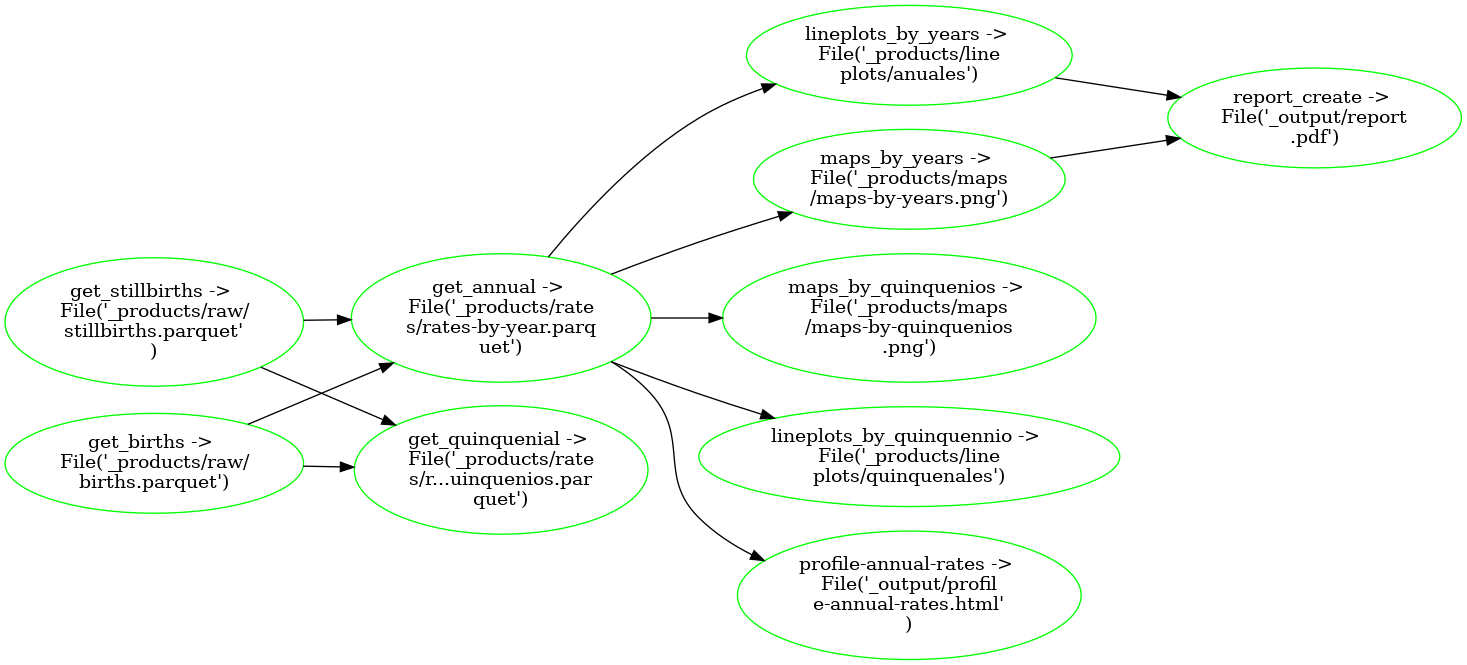
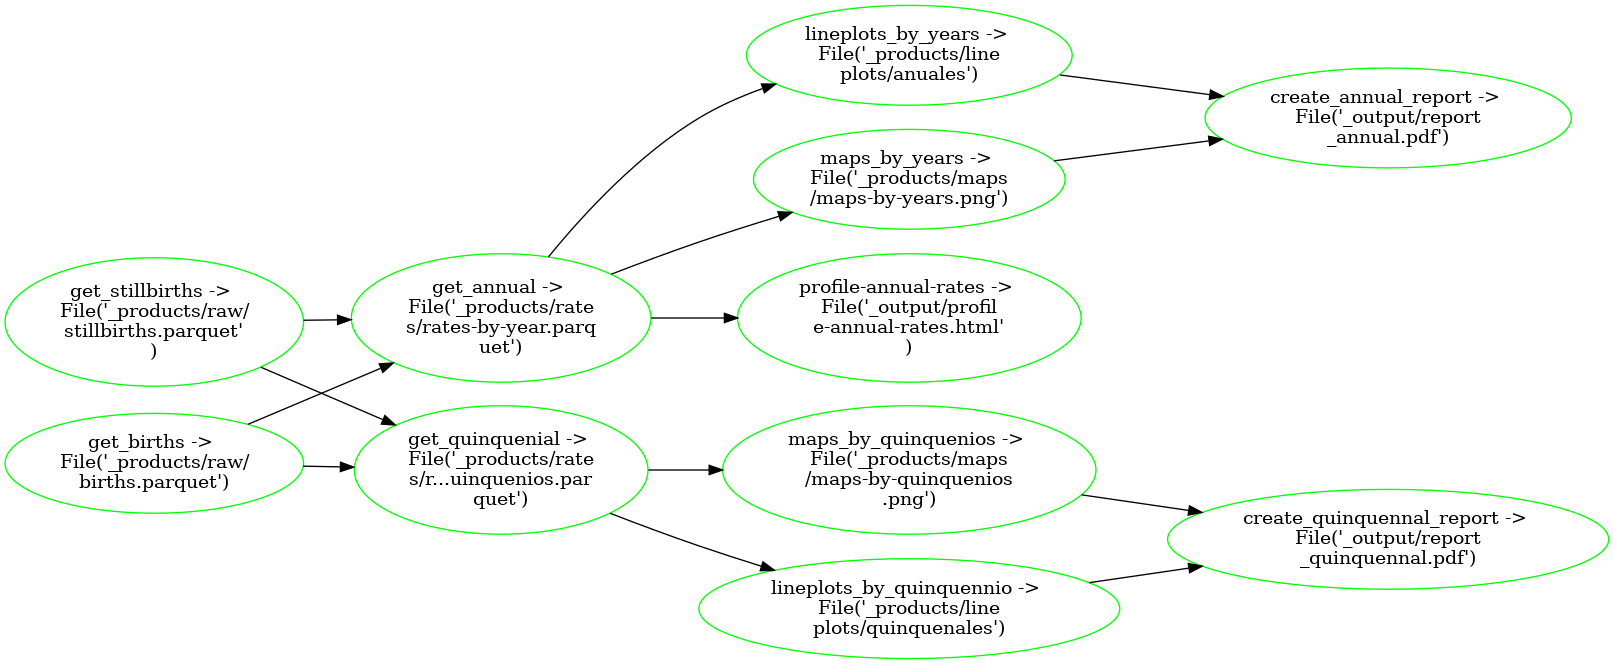
fix quinquennial report

diff --git a/provincial/tasks/report.py b/provincial/tasks/report.py
@@ -58,7 +58,7 @@ def __get_fig_template(fig_src: str, width: int, height: int) -> str:
 
 
 # + tags=[]
-def create(product, upstream, rates_param):
+def create_annual(product, upstream, rates_param):
 
     report_content = __get_report_template()
     # add maps:
@@ -71,7 +71,7 @@ def create(product, upstream, rates_param):
     # add lineplots:
     report_content += f'''
         <div style = "display:block; clear:both; page-break-after:always;"></div>
-        <h2 align="center">Tasas anuales por departamentos</h2>
+        <h2 align="center">Tasas anuales por provincias</h2>
         <p align="center">Cantidad de casos sobre {rates_param} nacimientos</p>
     '''
 
@@ -108,6 +108,70 @@ def create(product, upstream, rates_param):
 
     # Save HTML string to file
     HTML_REPORT_DIR = "tmp_report_years.html"
+    with open(HTML_REPORT_DIR, "w") as r:
+        r.write(report_content)
+    #Use pdfkit to create the pdf report from the 
+    pdfkit.from_file(
+        HTML_REPORT_DIR,
+        str(product),
+        options=options
+    ) 
+
+    # remove the tmp data
+    os.remove(HTML_REPORT_DIR)
+
+
+# + tags=[]
+def create_quinquennal(product, upstream, rates_param):
+
+    report_content = __get_report_template()
+    # add maps:
+    report_content += f'''
+        <h2 align="center">Mapas quinquenales</h2>
+        <p align="center">Cantidad de casos sobre {rates_param} nacimientos</p>
+    '''
+    report_content += __get_fig_template(str(upstream['maps_by_quinquenios']), 1200, 400)
+
+    # add lineplots:
+    report_content += f'''
+        <div style = "display:block; clear:both; page-break-after:always;"></div>
+        <h2 align="center">Tasas quinquenales por provincias</h2>
+        <p align="center">Cantidad de casos sobre {rates_param} nacimientos</p>
+    '''
+
+    # add map figures:
+    figure_names = [str(name) for name in sorted(glob.glob(f"{upstream['lineplots_by_quinquennio']}/*.png"))]
+
+    FIGURE_MAX_WIDTH = 1200
+    for figure_name in figure_names:
+        # add figures to report:
+        image = PIL.Image.open(figure_name)
+        width, height = image.size
+        # achicar el ancho de la fihura según la relación
+        # ancho de la figura - ancho máximo
+        height_max = height * (FIGURE_MAX_WIDTH / width)
+        if height_max < height:
+            height = height_max
+        report_content += __get_fig_template(figure_name, FIGURE_MAX_WIDTH, height)
+
+
+    # close
+    report_content += '''
+        </html>
+    '''
+
+    options = {
+        'page-size': 'Letter',
+        'margin-top': '0.75in',
+        'margin-right': '0.75in',
+        'margin-bottom': '0.75in',
+        'margin-left': '0.75in',
+        'encoding': "UTF-8",
+        'no-outline': None
+    }
+
+    # Save HTML string to file
+    HTML_REPORT_DIR = "tmp_report_quinquennios.html"
     with open(HTML_REPORT_DIR, "w") as r:
         r.write(report_content)
     #Use pdfkit to create the pdf report from the 

diff --git a/provincial/tasks/maps.py b/provincial/tasks/maps.py
@@ -76,10 +76,41 @@ def by_years(product, upstream):
     plt.close();
 
 
+# + active=""
+#
+# periods = {
+#     '1994-1998': [1994, 1995, 1996, 1997, 1998],
+#     '1999-2003': [1999, 2000, 2001, 2002, 2003],
+#     '2004-2008': [2004, 2005, 2006, 2007, 2008],
+#     '2009-2013': [2009, 2010, 2011, 2012, 2013],
+#     '2014-2019': [2014, 2015, 2016, 2017, 2018, 2019],
+# }
+#
+# tasas_provinciales_por_periodos = {}
+# for i, period in enumerate(periods):
+#     print(f"Recolectando datos para el período: {period}...")
+#     dataset_i = df\
+#         [df['año'].isin(periods[period])]\
+#         .drop(columns=['año', 'tasa'])\
+#         .groupby(['provincia_id'])\
+#         .sum()\
+#         .reset_index()
+#
+#     dataset_i['tasa'] = \
+#         (dataset_i['fallecimientos'] / dataset_i['nacimientos']) *10_000
+#
+#     dataset_i['periodo'] = period
+#
+#     tasas_provinciales_por_periodos[period] = dataset_i
+#
+# print("OK.")
+#
+
 # + tags=[]
 def by_quinquenios(product, upstream):
-
-    df = pandas.read_parquet(upstream['get_annual']['data'])
+    '''Dibuja los paras de tasas por quinquenios
+    '''
+    df = pandas.read_parquet(upstream['get_quinquenial']['data'])
     
     SHAPE_DIR = '/home/lmorales/work/stillbirth-book/notebooks/shapes/provincias.geojson'
     shape = geopandas.read_file(SHAPE_DIR)
@@ -89,33 +120,6 @@ def by_quinquenios(product, upstream):
     
     cmap = seaborn.diverging_palette(250, 5, as_cmap=True)
 
-    periods = {
-        '1994-1998': [1994, 1995, 1996, 1997, 1998],
-        '1999-2003': [1999, 2000, 2001, 2002, 2003],
-        '2004-2008': [2004, 2005, 2006, 2007, 2008],
-        '2009-2013': [2009, 2010, 2011, 2012, 2013],
-        '2014-2019': [2014, 2015, 2016, 2017, 2018, 2019],
-    }
-    
-    tasas_provinciales_por_periodos = {}
-    for i, period in enumerate(periods):
-        print(f"Recolectando datos para el período: {period}...")
-        dataset_i = df\
-            [df['año'].isin(periods[period])]\
-            .drop(columns=['año', 'tasa'])\
-            .groupby(['provincia_id'])\
-            .sum()\
-            .reset_index()
-
-        dataset_i['tasa'] = \
-            (dataset_i['fallecimientos'] / dataset_i['nacimientos']) *10_000
-
-        dataset_i['periodo'] = period
-
-        tasas_provinciales_por_periodos[period] = dataset_i
-
-    print("OK.")
-
     f, ax = plt.subplots(
         nrows=1, ncols=5,
         figsize=(26, 8),
@@ -123,13 +127,13 @@ def by_quinquenios(product, upstream):
     )
     axs = ax.flatten()
 
-    for i, period in enumerate(tasas_provinciales_por_periodos):
+    for i, (period, df_period) in enumerate(df.groupby('periodo')):
         # == Map: ==
         ax = axs[i]
 
         provincial_i = pandas.merge(
             shape,
-            tasas_provinciales_por_periodos[period],
+            df_period,
             on='provincia_id',
             how='left'
         )

diff --git a/provincial/tasks/lineplots.py b/provincial/tasks/lineplots.py
@@ -111,49 +111,11 @@ def by_years(product, upstream):
         plt.close()
 
 
-# -
-
-def __get_dataset_quinquennios(df, periods):
-    tasas_provinciales_por_periodos = {}
-    for i, period in enumerate(periods):
-        dataset_i =df\
-            [df['año'].isin(periods[period])]\
-            .drop(columns=['año', 'tasa'])\
-            .groupby(['provincia_id'])\
-            .sum()\
-            .reset_index()
-
-        dataset_i['tasa'] = \
-            (dataset_i['fallecimientos'] / dataset_i['nacimientos']) *10_000
-
-        dataset_i['periodo'] = period
-
-        tasas_provinciales_por_periodos[period] = dataset_i
-
-    print("OK.")
-    provincial_quinquenios_dataset = pandas.DataFrame()
-    for i, period in enumerate(tasas_provinciales_por_periodos):
-        provincial_quinquenios_dataset = pandas.concat([
-            provincial_quinquenios_dataset,
-            tasas_provinciales_por_periodos[period]
-        ])
-
-    return provincial_quinquenios_dataset
-
-
 # + tags=[]
 def by_quinquennio(product, upstream):
-    df = pandas.read_parquet(upstream['get_annual']['data'])
-    periods = {
-        '1994-1998': [1994, 1995, 1996, 1997, 1998],
-        '1999-2003': [1999, 2000, 2001, 2002, 2003],
-        '2004-2008': [2004, 2005, 2006, 2007, 2008],
-        '2009-2013': [2009, 2010, 2011, 2012, 2013],
-        '2014-2019': [2014, 2015, 2016, 2017, 2018, 2019],
-    }
+    df_quinquenios = pandas.read_parquet(upstream['get_quinquenial']['data'])
     provincias_id_nombre = __get_province_name_by_id()
-    provincial_quinquenios_dataset = __get_dataset_quinquennios(df, periods)
-    
+
     # setup:
     parent = Path(product)
 
@@ -167,8 +129,8 @@ def by_quinquennio(product, upstream):
     
     for province_id in provincias_id_nombre:
         # pick only one
-        data_i = provincial_quinquenios_dataset\
-            [provincial_quinquenios_dataset.provincia_id == province_id]
+        data_i = df_quinquenios\
+            [df_quinquenios.provincia_id == province_id]
 
         f, _, _ = __create_figure_provincial_rates(
             data_i['periodo'],
